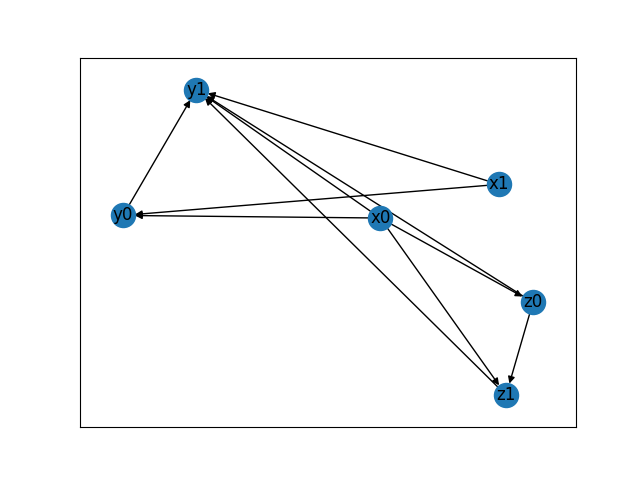
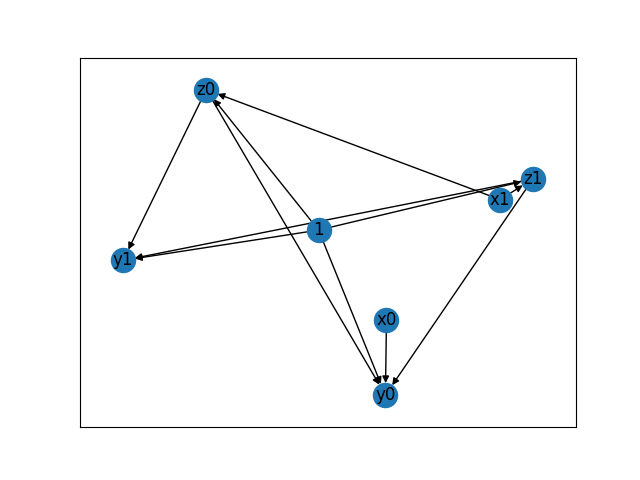
fix：更新颜色

diff --git a/src_stable/individual.py b/src_stable/individual.py
@@ -59,19 +59,26 @@ class Individual(nn.Module):
     def to_networkx(self):
         G = nx.DiGraph()
         # nodes. 统一使用j索引；命名时按照节点的类型，重新计数，称为k索引
-        nodes = [(j, {"color":"blue", "label":f"x{j}"}) for j in range(self.input_dim)]
+        G.add_node(-1, label="1", color="#2ecc71", fontcolor="#2ecc71", 
+                   shape="circle", style="bold") # bias
+        nodes = [(j, {"color":"#2ecc71", "style":"wedged", "fontcolor":"#2ecc71", "shape":"circle", 
+                               "label":f"x{j}"}) for j in range(self.input_dim)]
         k = 0
         for i in list(self.node_existence[:-self.output_dim].nonzero()):
             j = i.item()+self.input_dim
-            nodes.append((j, {"color":"yellow", "label":f"z{k}", "bias":str(self.bias[i].item())}))
+            nodes.append((j, {"shape":"circle", "style":"wedged",
+                       "color":"#3498db", "fontcolor":"#3498db", 
+                        "label":f"z{k}", "bias":str(self.bias[i].item())}))
             k+=1
         for k in range(self.output_dim):
             i = self.max_hidden_dim+k
             j = self.input_dim+i
-            nodes.append((j, {"color":"green", "label":f"y{k}", "bias":str(self.bias[i].item())}))
+            nodes.append((j, {"shape":"circle", "style":"wedged",
+                   "color":"#e74c3c", "fontcolor":"#e74c3c", 
+                              "label":f"y{k}", "bias":str(self.bias[i].item())}))
         G.add_nodes_from(nodes)
         # edges. 基于j索引，寻找有效连接，把weight绑上去。
-        edges = []
+        # edges = []
         for i in range(self.connectivity.shape[1]):
             for j in range(self.connectivity.shape[0]):
                 if j>=i+self.input_dim: 
@@ -79,8 +86,26 @@ class Individual(nn.Module):
                 if self.connectivity[j][i] and self.node_existence[i]:
                     if j>=self.input_dim and self.node_existence[j-self.input_dim]==False:
                         continue
-                    edges.append((j, i+self.input_dim, self.weight[j, i].item()))
-        G.add_weighted_edges_from(edges)
+                    # edges.append((j, i+self.input_dim, self.weight[j, i].item()))
+                    weight = self.weight[j, i].item()
+                    G.add_edge(j, i+self.input_dim, 
+                               weight=weight,
+                               label = f"{weight:.2f}",
+                               fontcolor="steelblue" if i<self.max_hidden_dim else "goldenrod"
+                               )
+        # bias
+        
+        for i in list(self.node_existence.nonzero()):
+            i = i.item()
+            j = i+self.input_dim
+            bias = self.bias[i].item()  
+            G.add_edge(-1, j, 
+                       bias=bias,
+                       label=f"{bias:.2f}",
+                       fontcolor="steelblue" if i<self.max_hidden_dim else "goldenrod"
+                       )
+            
+        # G.add_weighted_edges_from(edges)
         return G
 
     def reset_parameters(self, connection_density=0.75) -> None:
